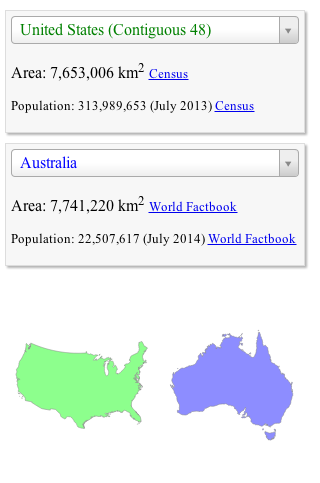
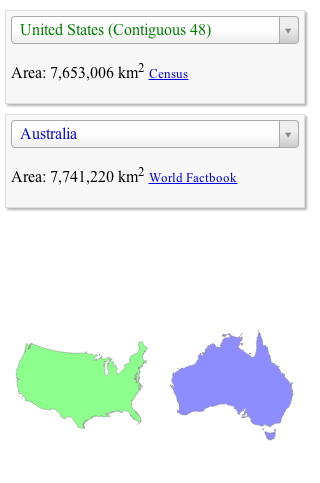
responsive CSS tweaks

Changed region(s): [[0.0, 0.1863, 0.9688, 0.559]]

diff --git a/comparea/static/css/comparea.css b/comparea/static/css/comparea.css
@@ -66,19 +66,13 @@ html,body{
 }
 
 /* Responsive UI for mobile/tablet */
-@media only screen and (max-width: 768px) and (max-height: 800px) {
-  /* This covers phones in either orientation, but not tablets */
-  .feature-panel .description {
-    display: none;
-  }
-}
-@media only screen and (max-width: 320px) and (max-height: 800px) {
+@media only screen and (max-width: 600px) and (orientation: portrait) {
   /* This covers phones in portrait */
   #sidebar {
     left: 0;
     right: 0;
     width: auto;
-    height: 290px;
+    height: 290px;  /* TODO: calculate this! */
   }
   .side-panel {
     width: 90%;  /* hack! TODO: undo margins or move them into @media */
@@ -87,15 +81,33 @@ html,body{
     top: 290px;
     right: 0;
   }
+  .feature-panel .description {
+    display: none;
+  }
+}
+
+@media only screen and (max-height: 500px) {
+  /* Only show descriptions if we're swimming in vertical pixels */
+  .feature-panel .description {
+    display: none;
+  }
+}
+
+@media only screen and (max-height: 500px) and (orientation: portrait) {
+  /* On short phones, use less space for stats and more for shapes. */
+  .population {
+    display: none;
+  }
 }
 
 @media only screen and (max-width: 768px) and (min-height: 800px) {
   /* tablet, portrait mode */
   #sidebar {
     left: 0;
-    right: auto;
+    right: 0;
     height: 375px;
     width: auto;
+    bottom: auto;
   }
   .side-panel {
     width: 47%;
